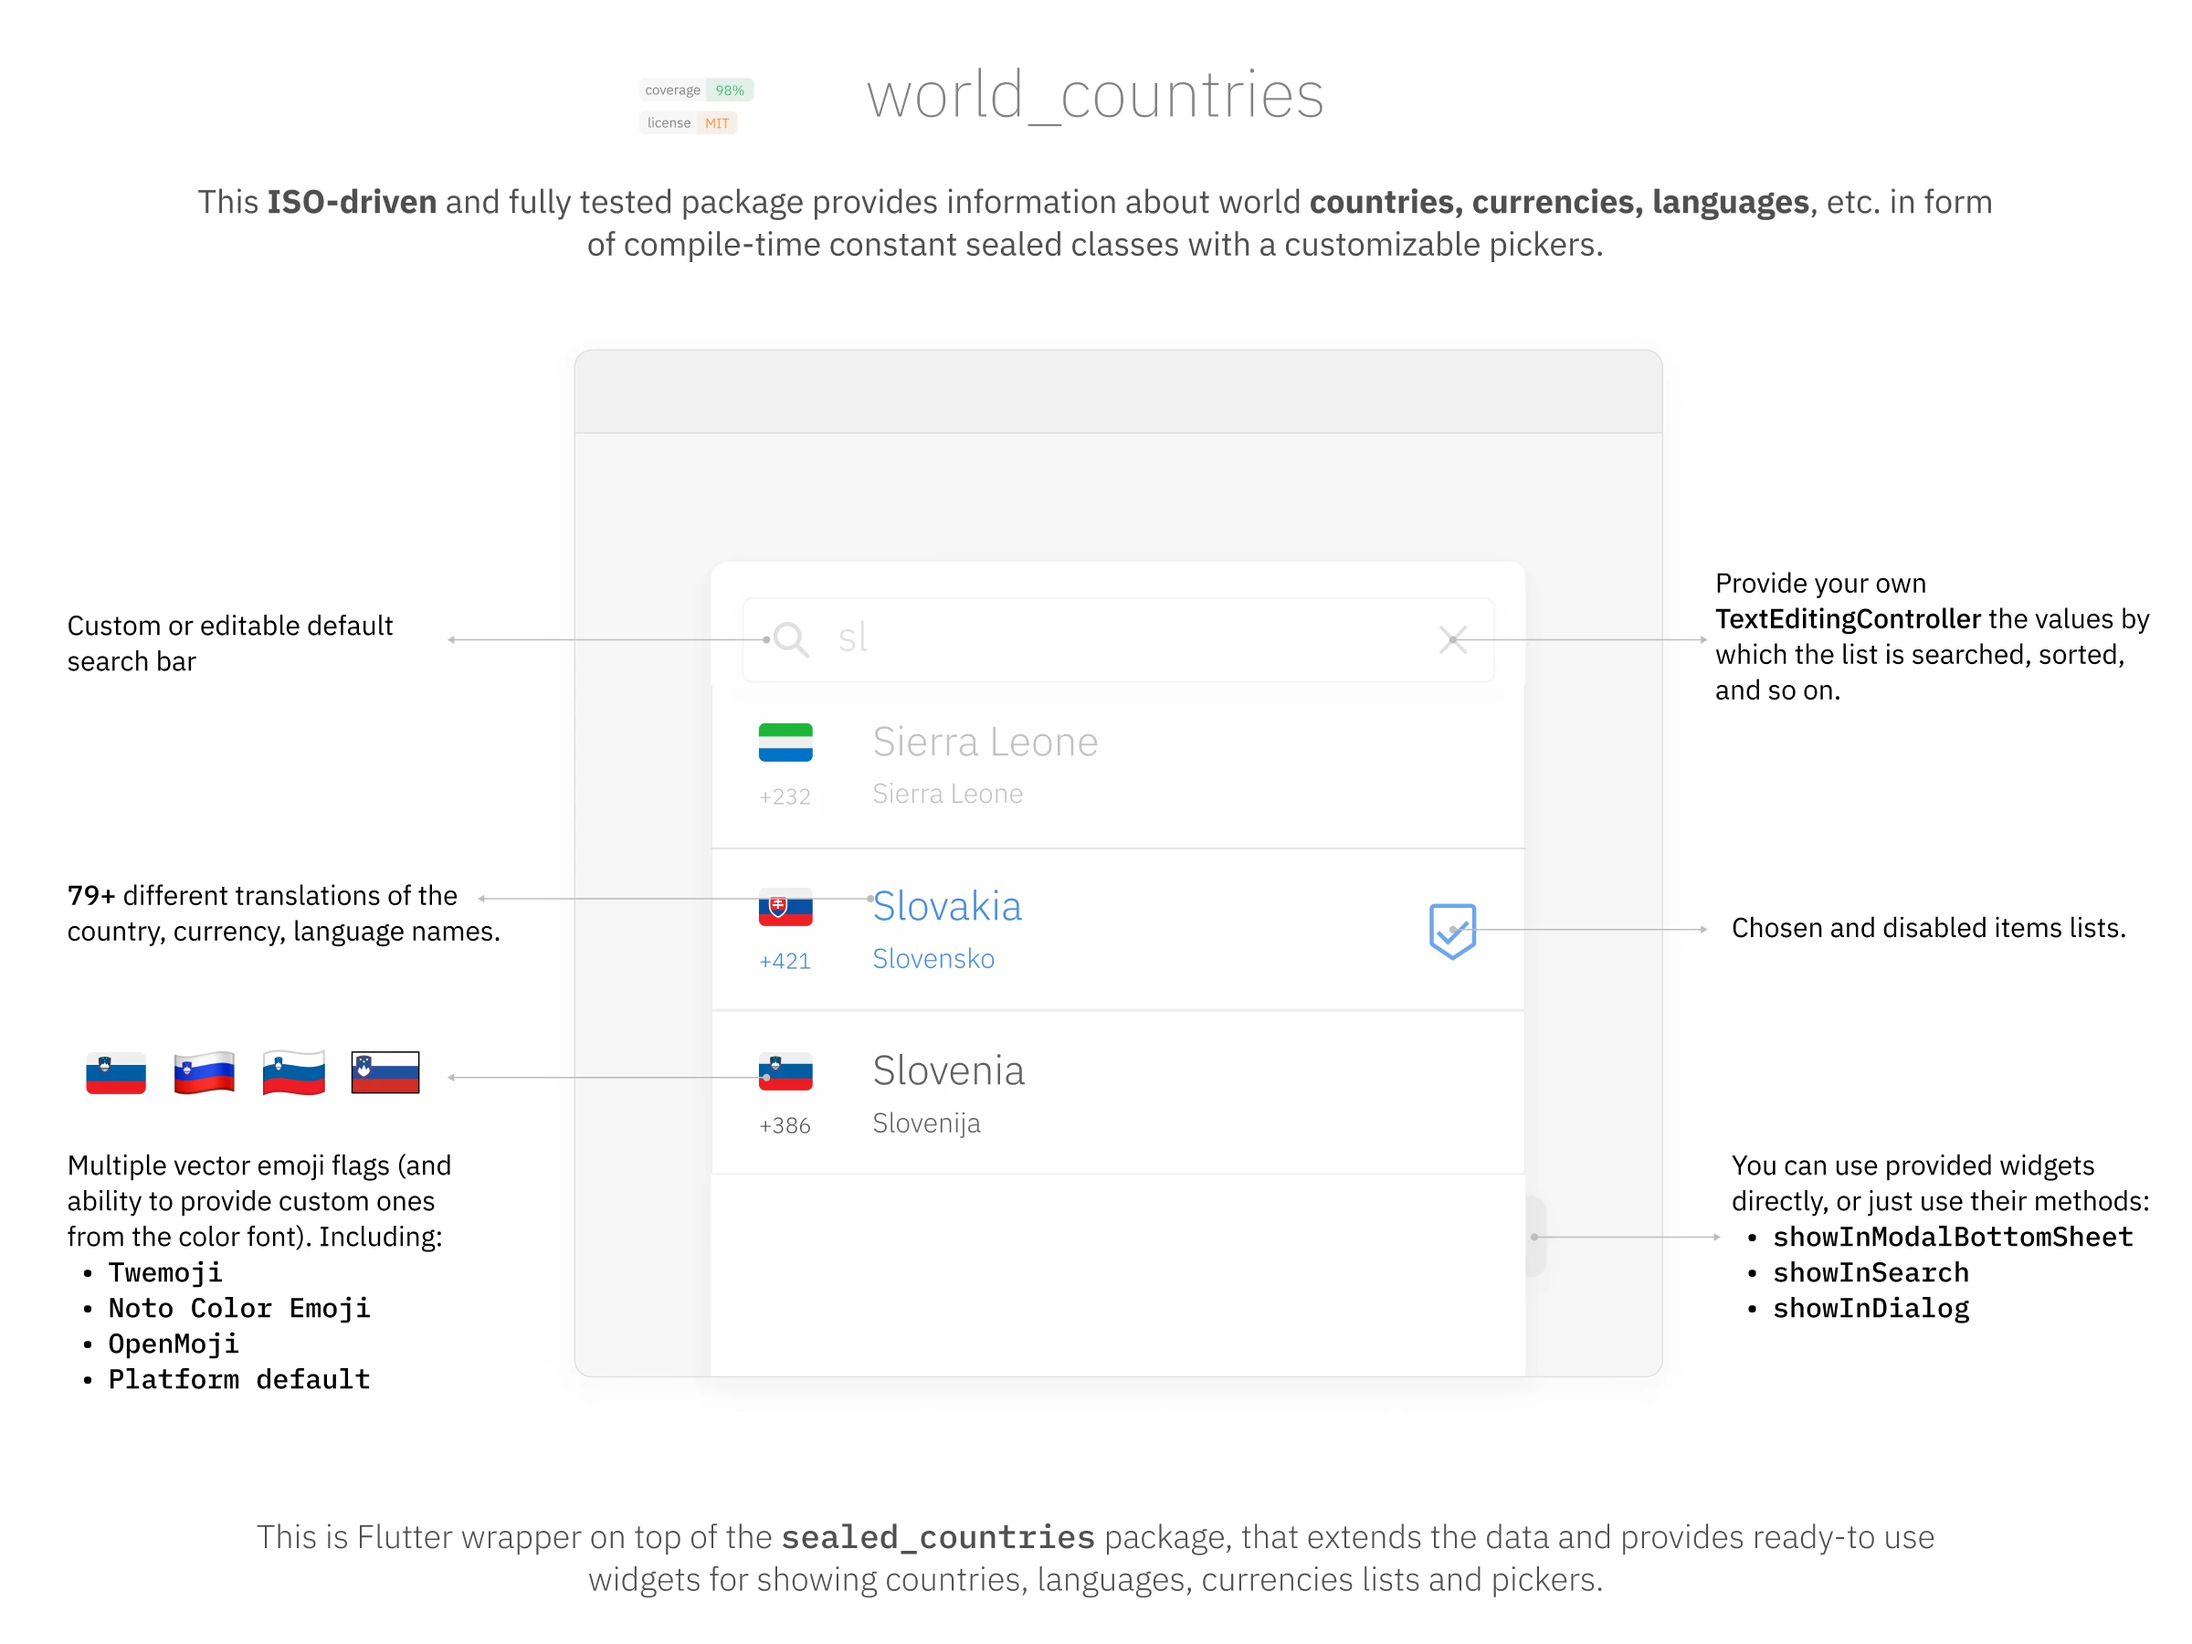
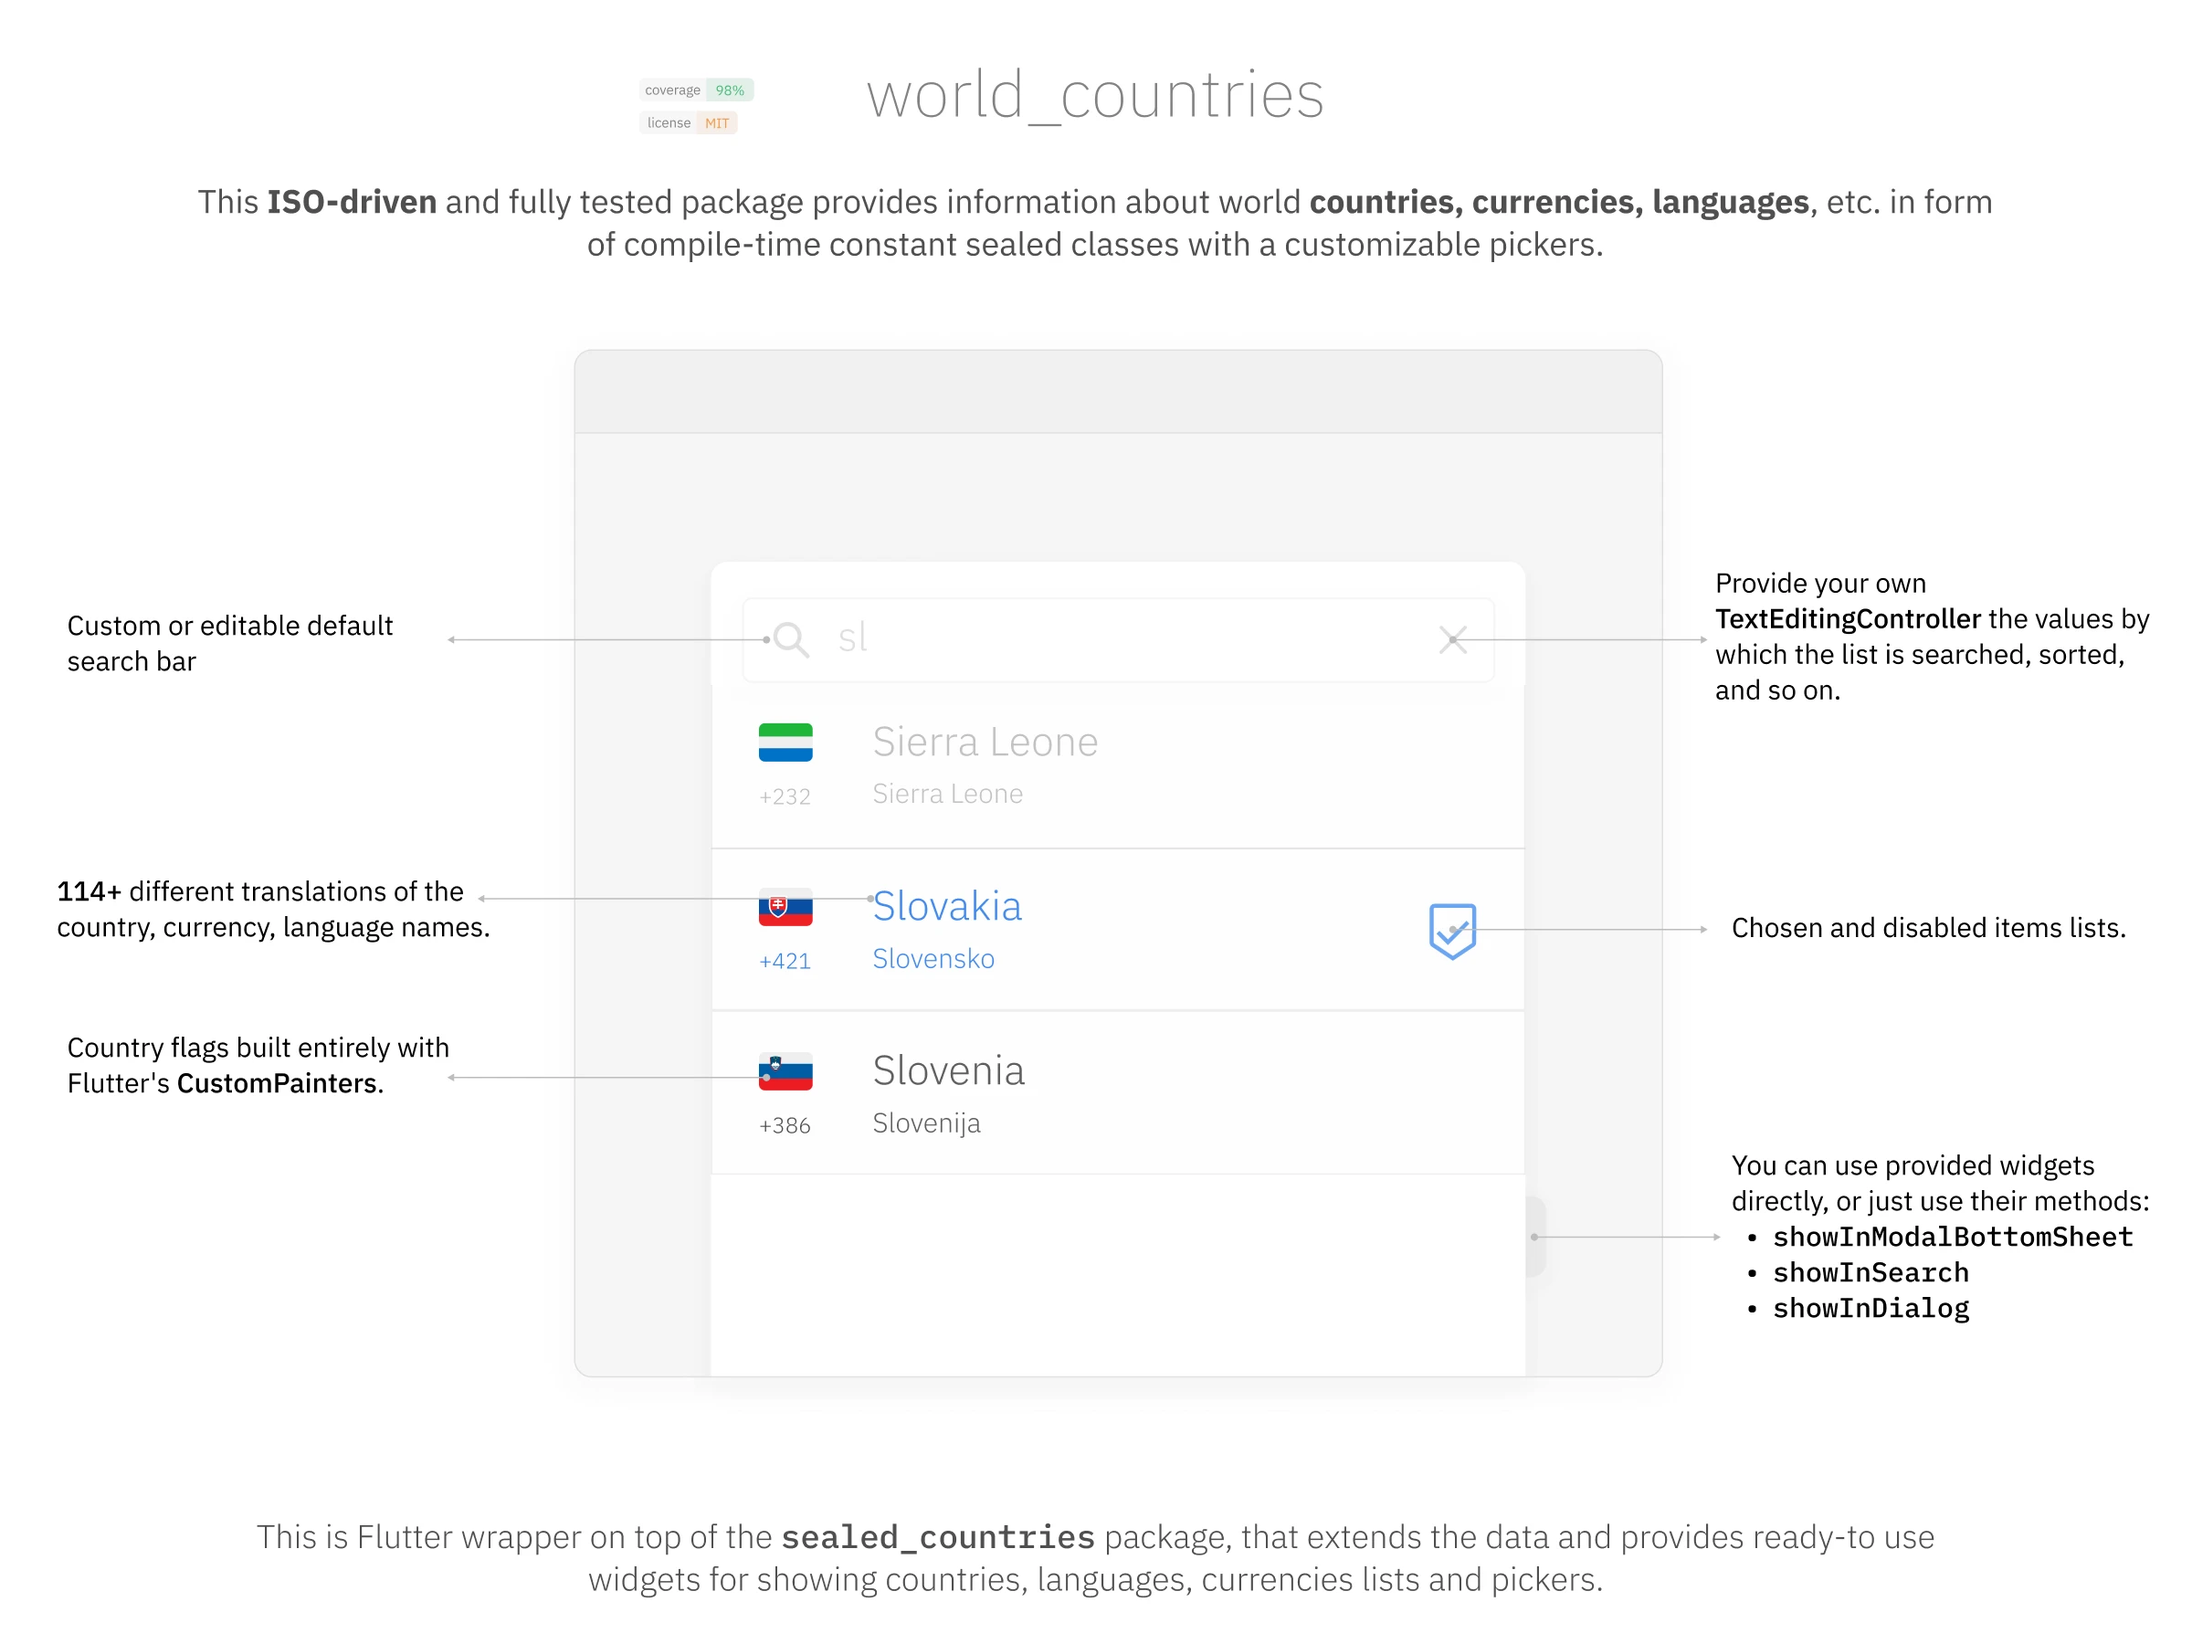
docs: provided documentation for v2.0.0

Changed region(s): [[0.0312, 0.6222, 0.2188, 0.84], [0.0312, 0.5289, 0.2188, 0.5911]]

diff --git a/packages/world_countries/example/lib/main.dart b/packages/world_countries/example/lib/main.dart
@@ -23,10 +23,9 @@ class _MainState extends State<Main> {
   /// [CountryTileThemeData].
   static const pickerThemes = <ThemeExtension>[
     PickersThemeData(primary: true), // Applies to all types of pickers.
-    /// Specify the flag decoration in the default country/phone-code picker.
     FlagThemeData(
-      decoration:
-          BoxDecoration(borderRadius: BorderRadius.all(Radius.circular(4))),
+      /// Specify the flag decoration in the default country/phone-code picker.
+      decoration: BoxDecoration(border: Border.fromBorderSide(BorderSide())),
     ),
   ];
   final _navigatorKey = GlobalKey<NavigatorState>();

diff --git a/packages/world_countries/README.md b/packages/world_countries/README.md
@@ -47,7 +47,7 @@ To preview the demo from the example, you can visit [this web page](https://tsin
 
 ### Getting started
 
-To use this package, you will need Flutter version 3.10+. Add `world_countries` as a dependency in your `pubspec.yaml` file.
+To use this package, you will need Flutter version 3.19+. Add `world_countries` as a dependency in your `pubspec.yaml` file.
 
 ```yaml
 dependencies:
@@ -236,10 +236,14 @@ CountryPicker(
 
 #### Why should I use this package over any other country/currency/language picker package?
 
+- **Fully Accessible**: All pickers are meticulously crafted with accessibility in mind, ensuring seamless integration with screen readers and assistive technologies.
+- **Every flag is a Widget**: This package doesn't use heavy SVG or any other assets to show country flags in the pickers. All flags are declarative-style optimized CustomPainters. That means that you don't have to worry about pre-caching, increased app size, platform-dependent look of the flags, etc. And since it's a widget - you can always change its look - shape, decoration, aspect ratio, etc. Just ask yourself for example - how you can easily change the aspect ratio of asset-based flags without stretching/shrinking them.
+- **Up-to-date Flags**: This package ensures accurate and timely flag representations, reflecting current designs. Unlike other packages or emoji/font sets that often use outdated flags, this package offers flags with the most recent designs (such as the Afghan flag from 2013 is shown here correctly with a design from year 2021).
 - **Sealed classes**: This package provides data in the form of sealed classes, allowing you to create your own instances and work with them as with existing ones (for example this is not possible with enums or regular classes (without losing it's sealed nature), you can also override existing or add new data, etc.).
 - **No 3rd-party dependencies**: This package has no third-party dependencies, ensuring that you won't have any issues or conflicts with other dependencies (no even `meta` here, because of that).
 - **Rich data**: This package offers far more data than any other package + tons of translations (all [GlobalMaterialLocalizations](https://api.flutter.dev/flutter/flutter_localizations/GlobalMaterialLocalizations-class.html) and [GlobalCupertinoLocalizations](https://api.flutter.dev/flutter/flutter_localizations/GlobalCupertinoLocalizations-class.html) locales and more).
 - **Type-safe**: The contracts and types in this package are very strong, ensuring that your code is strongly typed and well-defined.
-- **High code coverage**: The code in this package has almost 100% code coverage, with more than 130 (+3819 in underling Dart packages) tests, providing confidence in its reliability and stability.
+- **High code coverage**: The code in this package boasts nearly 100% test coverage, with almost 4,000 tests (130+ in this package, 3828+ in underlying Dart packages) ensuring reliability and stability.
+- **Comprehensive Documentation**: This package provides full documentation for every non-code generated public member, usually with examples, ensuring clarity and ease of use.
 - **Industry adopted**: This package is actively used in production by numerous European companies, ensuring its efficacy and robustness in real-world scenarios.
 - **MIT License**: This package and sources are released under the MIT license, which is a permissive license that allows users to use, modify, and distribute the code with minimal restrictions. The MIT license is considered better than most other open-source licenses because it provides flexibility and allows users to incorporate the code into their projects without worrying about legal implications.

diff --git a/packages/world_countries/CHANGELOG.md b/packages/world_countries/CHANGELOG.md
@@ -1,3 +1,24 @@
+## 2.0.0
+
+BREAKING CHANGES
+
+- Package requires Flutter version 3.19+, because it now uses Semantics [identifier](https://api.flutter.dev/flutter/semantics/SemanticsData/identifier.html) property in all picker's tiles (this property was introduced in that SDK version). This identifier describes the node for UI automation tools that work by querying the accessibility hierarchy, such as Android UI Automator, iOS XCUITest, or Appium. It's not exposed to users.
+- All previously deprecated code, marked with the @Deprecated annotation, has been removed. Including color font emojis (you can still use them on your own via `EmojiFlag.custom` constructor, example code is provided in the `example` project).
+
+NEW FEATURES
+
+- All pickers are updated with accessibility in mind, ensuring seamless integration with screen readers and assistive technologies. Feel free to use [SemanticsDebugger](https://api.flutter.dev/flutter/widgets/SemanticsDebugger-class.html) to check it.
+- `CountryFlag` now offers `alternativeMap` parameter that you can use to provide alternative look of the country flag. By default it contains updated Afghanistan flag (with official design from year 2021) and alternative French Guiana flags.
+- `CountryFlag` now have non-required child property.
+
+REFACTOR
+
+- New asserts in the constructors and optimizations in several country flag painters.
+
+TESTS
+
+- Added tests for new flag asserts and update goldens with arabic fonts.
+
 ## 1.6.0
 
 NEW FEATURES
